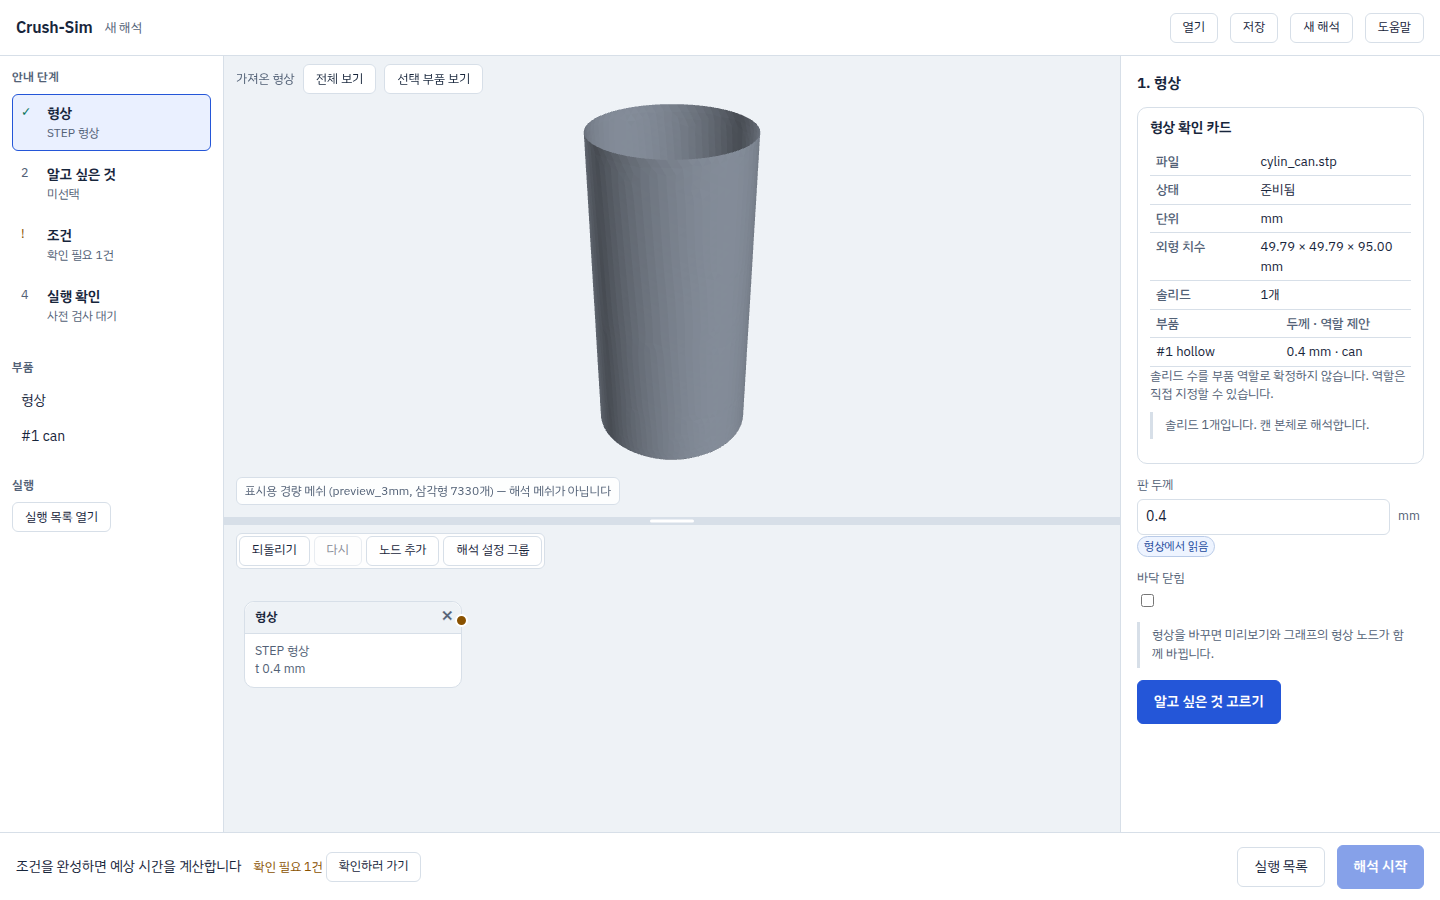
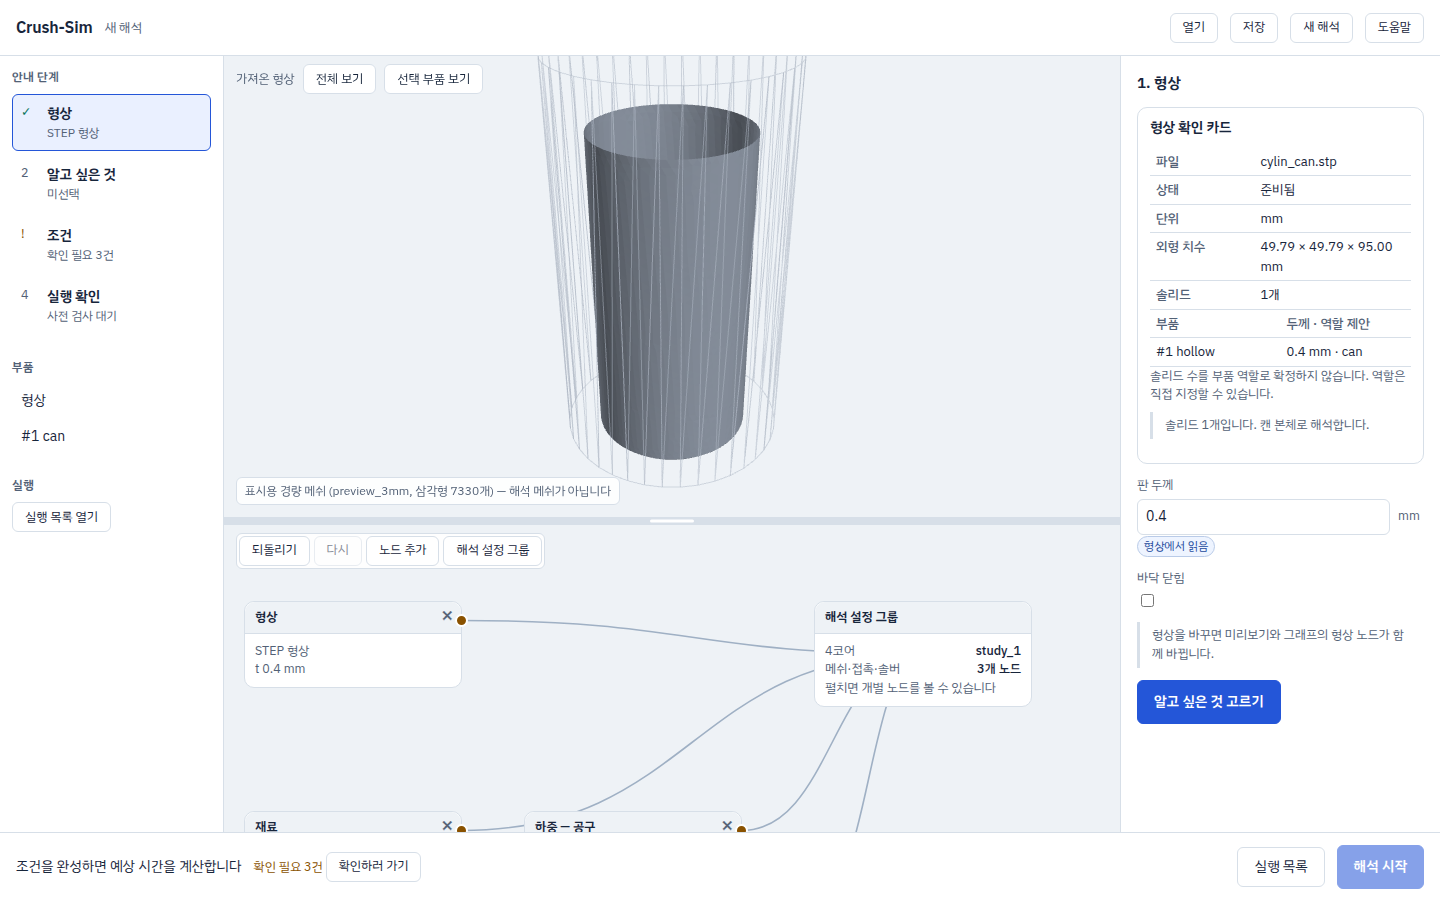
UI WP2 (4): STEP 가져오기 뒤 해석 뼈대까지 세운다 + 좁은 화면 결과 목록
STEP을 가져오면 형상 노드만 남아 2단계로 넘어가도 실행할 그래프가 없었다.
자산을 붙이기 전에 메쉬·재료·하중·접촉·솔버·결과 뼈대를 세우고 형상만 STEP으로
바꾼다. U02 스모크에 솔버 존재·asset_refs 1건·step_path 없음(고급 전용)을 넣었다.

768 px 아래 안내 화면의 결과 목록이 "불러오는 중…"에서 멈춰 있었다.
/api/executions의 완료 런과 뷰어·리포트 링크를 채운다(§3.2: 모바일에서 결과
열람은 필수).

U22를 U07 흐름 끝에 붙였다: 제출 뒤 페이지를 새로 고치면 exec_id로 실행 행이
복원된다.

Claude-Session: https://claude.ai/code/session_014WQ9he3vdsAQRaqozdQcms

diff --git a/crushsim/ui/static/app.js b/crushsim/ui/static/app.js
@@ -2815,6 +2815,9 @@ const AssetImport = {
   },
 
   async adopt(asset) {
+    // STEP만 넣고 끝내면 형상 노드 하나뿐인 그래프가 남아 다음 단계로 갈 수
+    // 없다. 뼈대(메쉬·재료·하중·솔버·결과)를 먼저 세우고 형상만 STEP으로 바꾼다.
+    if (!App.graph.solver()) Guided.startParametric("parametric_can");
     Guided.attachAsset(asset);
     UI.hideStart();
     App.step = 1;
@@ -2836,6 +2839,36 @@ const AssetImport = {
     } catch (error) { /* 자산이 사라졌어도 그래프는 열린다 */ }
   }
 };
+
+/* ------------------------------------------------- 좁은 화면의 결과 목록 */
+
+/** 768 px 아래에서는 제출을 지원하지 않는다. 그래도 완료된 해석의 결과·뷰어·
+    리포트는 열 수 있어야 한다(§3.2: 모바일에서 결과 열람은 필수). */
+async function renderMobileRuns() {
+  const host = $("mobileRuns");
+  if (!host) return;
+  try {
+    const body = await Api.get("/api/executions");
+    const done = (body.items || []).filter((r) => r.state === "completed");
+    clear(host);
+    if (!done.length) {
+      host.appendChild(el("p", { class: "muted", text: "완료된 해석이 아직 없습니다." }));
+      return;
+    }
+    for (const run of done) {
+      const artifacts = run.artifacts || {};
+      host.appendChild(el("div", { class: "run-row" }, [
+        el("div", { class: "rname", text: run.case_name || run.exec_id }),
+        el("div", { class: "ractions" }, [
+          artifacts.viewer ? el("a", { class: "btn small", href: artifacts.viewer, text: "3D 뷰어" }) : null,
+          artifacts.report ? el("a", { class: "btn small", href: artifacts.report, text: "리포트" }) : null
+        ])
+      ]));
+    }
+  } catch (error) {
+    clear(host).appendChild(el("p", { class: "muted", text: "결과 목록을 읽지 못했습니다." }));
+  }
+}
 
 /* --------------------------------------------------------------- 분할선 */
 
@@ -2959,6 +2992,7 @@ async function boot() {
   } catch (error) {
     UI.toastError("서버 기능 목록을 읽지 못했습니다. 화면을 새로 고쳐 보세요.");
   }
+  renderMobileRuns();
   UI.renderAll();
   RunStore.start();
   const paint = performance.now() - t0;

diff --git a/tests/ui_smoke/test_workshop.py b/tests/ui_smoke/test_workshop.py
@@ -177,6 +177,11 @@ def test_u02_step_import_shows_units_and_parts(page, server) -> None:
     assert "외형 치수" in card
     assert "솔리드" in card
     assert "cylin_can.stp" in card
+    # 가져오기만 하고 끝나지 않는다: 다음 단계로 갈 수 있는 그래프가 함께 선다.
+    assert page.evaluate("() => !!App.graph.solver()")
+    assert page.evaluate("() => Object.values(App.graph.meta.asset_refs).length") == 1
+    # 서버 경로는 기본 UI에서 만들지 않는다(고급 가져오기 전용).
+    assert page.evaluate("() => App.graph.geometryNode().params.step_path") in (None, "")
     _shot(page, "02_step_import.png")
 
 
@@ -210,6 +215,14 @@ def test_u07_click_path_from_dimensions_to_queued_execution(page, server) -> Non
     _shot(page, "04_running.png")
     listed = app.state.executions.list()["items"]
     assert listed, "실행이 큐에 등록되지 않았습니다"
+
+    # U22: 탭을 다시 열어도 exec_id로 상태가 복원된다.
+    exec_id = listed[0]["exec_id"]
+    page.reload()
+    page.wait_for_function("() => window.__firstPaintMs !== undefined", timeout=20000)
+    page.click("#btnRunPanel")
+    page.wait_for_selector(".run-row", timeout=20_000)
+    assert exec_id in page.inner_text("#runPanel")
 
 
 # ---------------------------------------------------------------- U12
